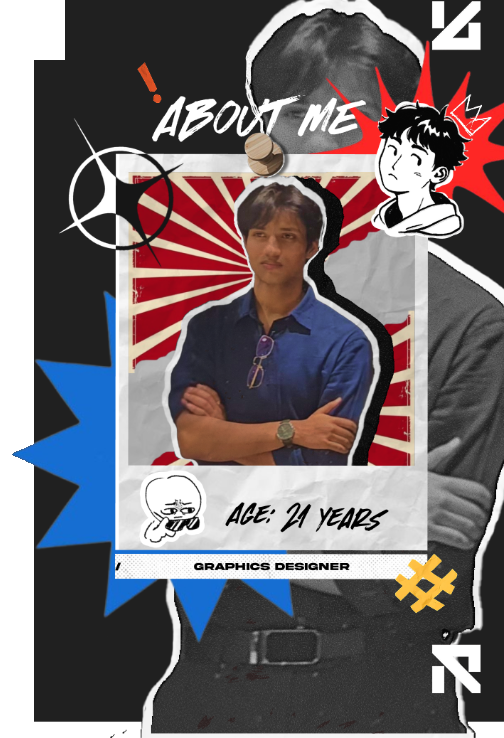
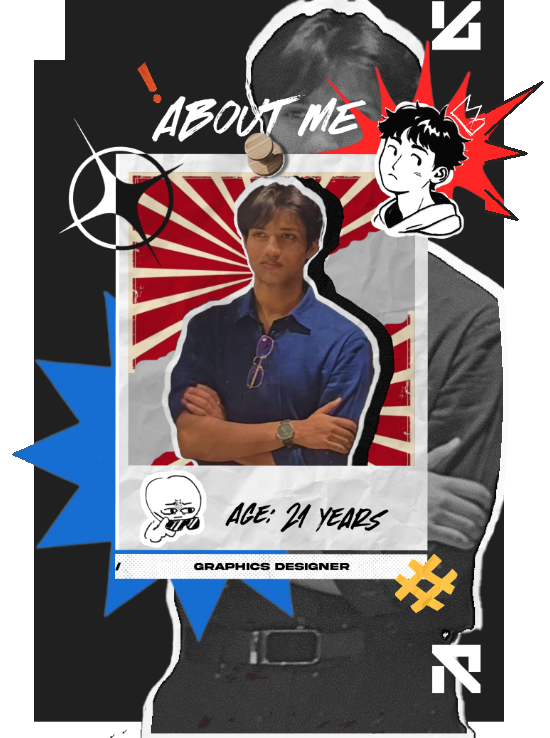
Keep card stroke and expand cutouts beyond border uncropped

diff --git a/src/components/AboutSection.jsx b/src/components/AboutSection.jsx
@@ -30,12 +30,12 @@ export default function AboutSection() {
         
         {/* ================= DESKTOP / TABLET VIEW (md and up) ================= */}
         <div className="hidden md:block w-full">
-          <div className="relative w-full max-w-[1440px] mx-auto aspect-[1024/768] rounded-t-[28px] lg:rounded-t-[36px] rounded-b-none overflow-hidden shadow-[0_24px_70px_rgba(0,0,0,0.9)] border-t border-x border-white/10 group transition-all duration-500 hover:border-white/20">
-            {/* Pristine Figma Frame Canvas with clean base for animated layers */}
+          <div className="relative w-full max-w-[1440px] mx-auto aspect-[1024/768] rounded-t-[28px] lg:rounded-t-[36px] rounded-b-none overflow-visible shadow-[0_24px_70px_rgba(0,0,0,0.9)] border-t border-x border-white/10 group transition-all duration-500 hover:border-white/20">
+            {/* Pristine Figma Frame Canvas with clean base and expanded cutouts */}
             <img
               src={aboutFullFrameCanvas}
               alt="About Me - Om, UI/UX Designer, Illustrator, Artist based in Shillong, India. Age 21 Years."
-              className="w-full h-full object-cover object-center select-none pointer-events-none"
+              className="absolute left-0 top-0 h-full w-[104.492%] max-w-none object-contain object-left-top select-none pointer-events-none"
             />
 
             {/* Interactive Animated Characters & "Hello, i'm OM." */}

diff --git a/src/components/AnimatedCollage.jsx b/src/components/AnimatedCollage.jsx
@@ -59,7 +59,7 @@ export default function AnimatedCollage({ className = '', standalone = false }) 
       onTouchMove={handleTouchMove}
       onTouchEnd={handleTouchEnd}
       onTouchCancel={handleTouchEnd}
-      className={`relative w-full aspect-[504/738] select-none touch-pan-y ${className}`}
+      className={`relative w-full aspect-[504/738] select-none touch-pan-y overflow-visible ${className}`}
       style={{ perspective: '1000px' }}
       role="region"
       aria-label="About Me collage with interactive Polaroid - Om: Age 21 Years, Graphics Designer"
@@ -69,7 +69,7 @@ export default function AnimatedCollage({ className = '', standalone = false }) 
         <img
           src={aboutRightCollageClean}
           alt="About Me - Om, 21 years old Graphics Designer collage"
-          className="absolute inset-0 w-full h-full object-contain pointer-events-none select-none z-0"
+          className="absolute left-0 top-0 w-[109.127%] h-full max-w-none object-contain object-left-top pointer-events-none select-none z-0"
         />
       )}
 
